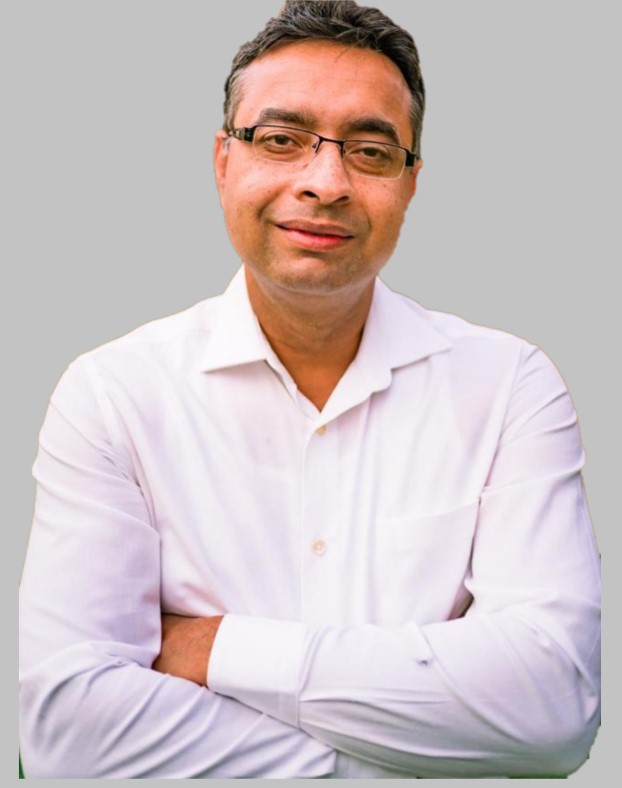
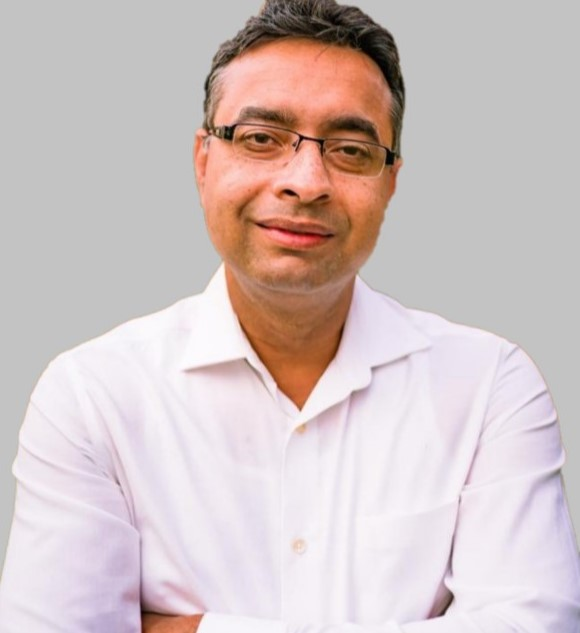
Pages main image styling change

diff --git a/css/style.css b/css/style.css
@@ -4136,7 +4136,10 @@ header-style-seven .nav-toggler:hover{
 .page-title{
 	position:relative;
 	padding: 120px 0 120px;
-	background-size:cover;
+	background-size:100% 100%;
+	-webkit-background-size: 100% 100%;
+    -moz-background-size: 100% 100%;
+    -o-background-size: 100% 100%;
 	background-position:center center;
 	background-repeat:no-repeat;
 }
@@ -10278,7 +10281,7 @@ header-style-seven .nav-toggler:hover{
 
 .contact-page-section .form-column .inner-column{
 	position: relative;
-	padding: 100px 0;	
+	padding: 50px 0;	
 }
 
 .contact-page-section .sec-title{
